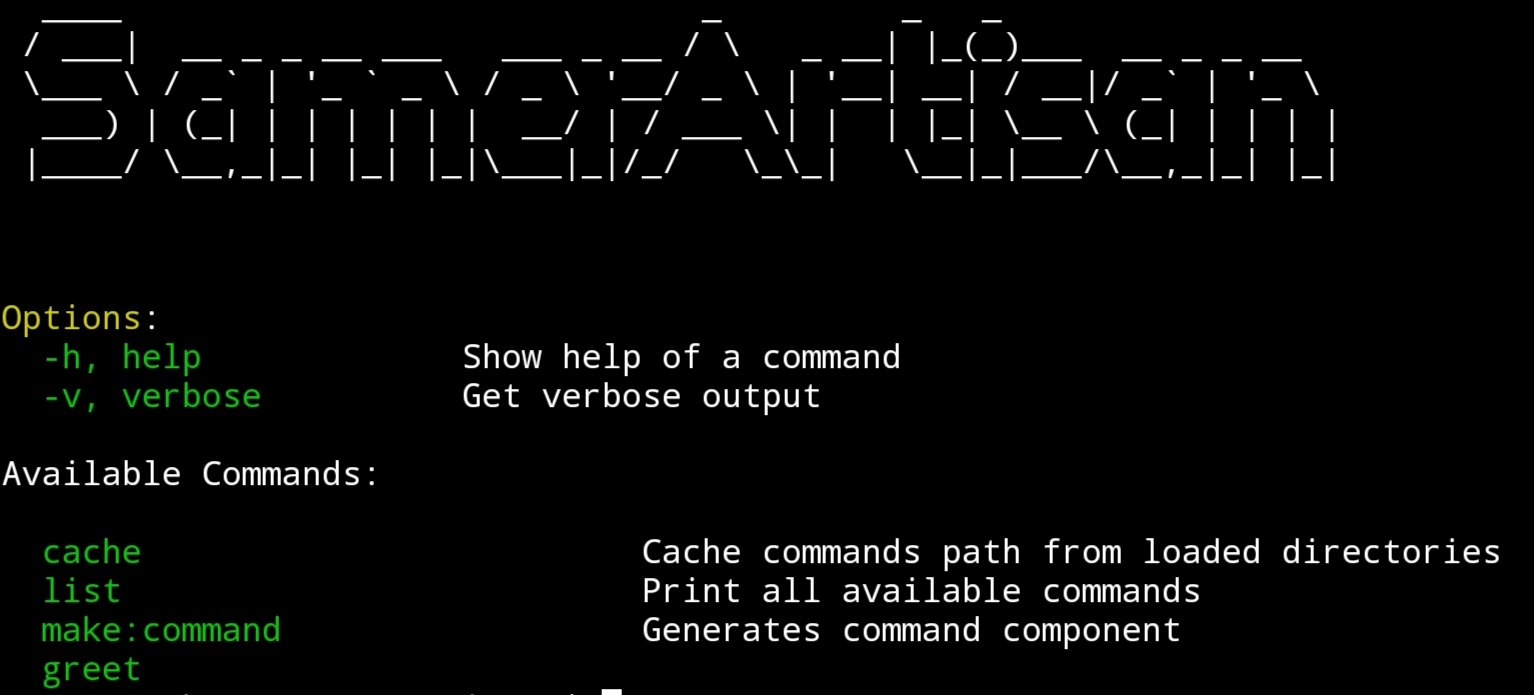
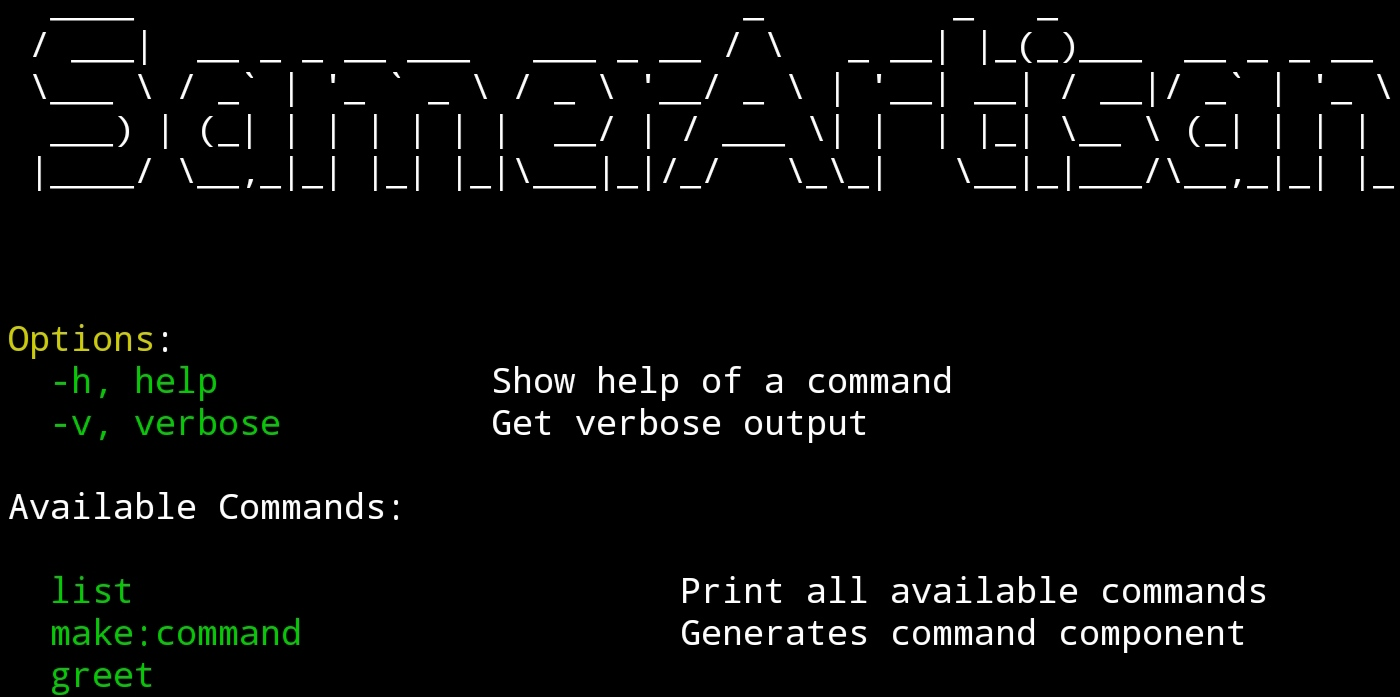
backup

diff --git a/src/SamerArtisan.ts b/src/SamerArtisan.ts
@@ -1,6 +1,6 @@
 import { Command } from "./commands/Command";
 import type { SamerArtisanConfig } from "./interfaces";
-import { parseArguments } from "./utils";
+import { parseArguments, analyseSimilarity } from "./utils";
 import { consoleError } from "./exceptions/console";
 import prompts, { Choice } from "prompts";
 import { textSync } from "figlet";
@@ -165,8 +165,7 @@ export class SamerArtisan {
       type: 'autocomplete',
       name: 'value',
       message: `Command "${base}" is not defined\n Did you mean one of these`,
-      choices,
-      initial: base
+      choices
     });
     return value;
   }
@@ -186,23 +185,31 @@ export class SamerArtisan {
    * Call a command by base
   */
   static async call(base: string, input: string[] = []) {
-    const similarCommands: Record<string, Command<unknown, unknown>> = {};
+    const similarCommands: Record<string, {
+      distance: number;
+      command: Command<unknown, unknown>;
+    }> = {};
+    
     for(const command of this.$resolvedCommands) {
       if(command.base === base)
         return await this.exec(command, input);
-      else if (command.base.startsWith(base))
-        similarCommands[command.base] = command;
+      const distance = analyseSimilarity(base, command.base, 3);
+      if (distance !== -1)
+        similarCommands[command.base] = { distance, command };
     }
     
-    const similars = Object.keys(similarCommands);
+    const similars = Object.keys(similarCommands).sort((x, y) => {
+      return similarCommands[x].distance - similarCommands[y].distance;
+    });
+    
+    console.log(similars)
     
     if (similars.length === 0)
       consoleError("No Command Found", true);
 
     const newBase = await this.$suggestSimilars(base, similars);
-    if(newBase) {
-      await this.exec(similarCommands[newBase], input);
-    }
+    if(newBase)
+      await this.exec(similarCommands[newBase].command, input);
   }
   
   /**

diff --git a/src/utils/similarity.ts b/src/utils/similarity.ts
@@ -1,0 +1,33 @@
+function calculateLevenshteinDistance(str1: string, str2: string): number {
+  const len1 = str1.length + 1;
+  const len2 = str2.length + 1;
+
+  const matrix: number[][] = [];
+
+  for (let i = 0; i < len1; i++) {
+    matrix[i] = [i];
+  }
+
+  for (let j = 0; j < len2; j++) {
+    matrix[0][j] = j;
+  }
+
+  for (let i = 1; i < len1; i++) {
+    for (let j = 1; j < len2; j++) {
+      const cost = str1[i - 1] === str2[j - 1] ? 0 : 1;
+      matrix[i][j] = Math.min(
+        matrix[i - 1][j] + 1,
+        matrix[i][j - 1] + 1,
+        matrix[i - 1][j - 1] + cost
+      );
+    }
+  }
+
+  return matrix[len1 - 1][len2 - 1];
+}
+
+export function analyseSimilarity(str1: string, str2: string, threshold: number): number {
+  const distance = calculateLevenshteinDistance(str1, str2);
+  console.log(str2, distance)
+  return distance <= threshold ? distance : -1;
+}

diff --git a/examples/js/index.js b/examples/js/index.js
@@ -12,10 +12,8 @@ class Greet extends Command {
   }
 }
 
-console.time()
 SamerArtisan
   .root(__dirname)
   .load("commands")
   .add(new Greet())
   .parse()
-  .then(() => console.timeEnd());

diff --git a/examples/ts/index.ts b/examples/ts/index.ts
@@ -2,6 +2,5 @@ import { SamerArtisan } from "../../lib";
 
 SamerArtisan
   .root(__dirname)
-  .cacheDist("cache/artisan.json")
   .load("commands")
   .parse();

diff --git a/src/utils/index.ts b/src/utils/index.ts
@@ -1,1 +1,2 @@
 export * from "./parser";
+export * from "./similarity";
